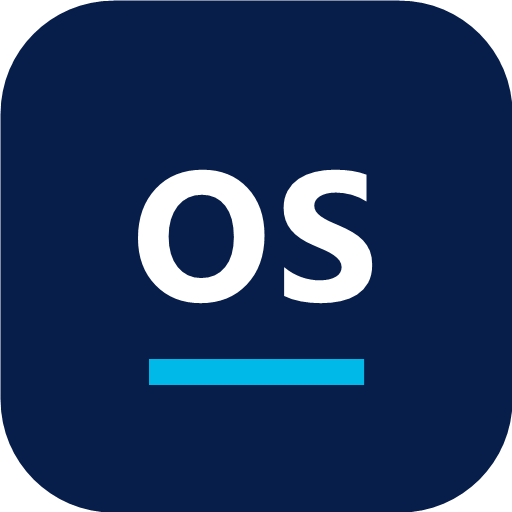
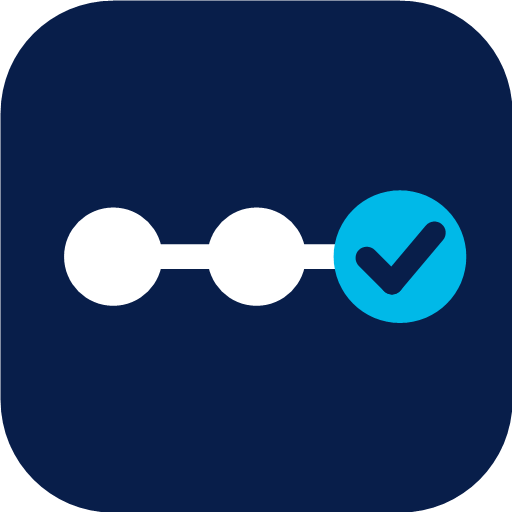
Correções: ícones de etapas, datas, carga de dados, aviso ao salvar, foco, cidade no gerador

Changed region(s): [[0.125, 0.3125, 0.9375, 0.6562], [0.2812, 0.6875, 0.7188, 0.75]]

diff --git a/gerador.html b/gerador.html
@@ -122,6 +122,9 @@
           <input id="f-bairro" maxlength="40" placeholder="Ex.: Barreiro">
         </div>
       </div>
+      <label for="f-cidade">Cidade da empresa <span class="opc">(opcional; em branco = BH e região)</span></label>
+      <input id="f-cidade" maxlength="40" placeholder="Ex.: Belo Horizonte, Contagem, Betim…" autocomplete="off">
+      <div class="msg-erro" id="aviso-cidade" hidden></div>
 
       <div class="linha">
         <div>
@@ -460,12 +463,26 @@ function marcarErros(erros) {
   });
 }
 
-/** abertura (opcional, vem da lista de prospecção): frase personalizada sobre a empresa, no lugar de "Vi a X no Google". */
-function mensagemPara(empresa, link, nicho, abertura) {
+/* Cidades de BH e região: a apresentação "desenvolvedor aqui de BH" passa confiança local. Fora delas, apresentação nacional. */
+const REGIAO_BH = ['belo horizonte', 'bh', 'contagem', 'betim', 'nova lima', 'sabara', 'santa luzia', 'ribeirao das neves', 'ibirite',
+  'vespasiano', 'lagoa santa', 'sarzedo', 'brumadinho', 'pedro leopoldo', 'confins', 'sao jose da lapa', 'raposos', 'rio acima',
+  'juatuba', 'mateus leme', 'igarape', 'esmeraldas', 'caete', 'mario campos', 'sao joaquim de bicas'];
+function naRegiaoBH(cidade) {
+  const c = String(cidade || '').normalize('NFD').replace(/[̀-ͯ]/g, '').toLowerCase().replace(/[^a-z ]/g, ' ').replace(/\s+/g, ' ').trim()
+    .replace(/ (mg|minas gerais)$/, '');
+  return !c || REGIAO_BH.includes(c);
+}
+function apresentacao(nome, cidade) {
+  return naRegiaoBH(cidade) ? `Sou ${nome}, desenvolvedor aqui de BH.` : `Sou ${nome}, da LeonTech: desenvolvo sites e sistemas, com atendimento remoto em todo o Brasil.`;
+}
+/** abertura (opcional, vem da lista de prospecção): frase personalizada sobre a empresa, no lugar de "Vi a X no Google".
+ *  cidade (opcional): decide a apresentação (BH e região × nacional). */
+function mensagemPara(empresa, link, nicho, abertura, cidade) {
   const nome = ler('seu_nome') || 'Leonardo';
   const pedido = (NICHOS[nicho] || NICHOS.oficina).pedido || 'pedidos de orçamento';
-  if (abertura) return `Oi, tudo bem? Sou ${nome}, desenvolvedor aqui de BH. ${abertura}\n\nMontei uma prévia de como poderia ficar uma página para receber ${pedido} direto no WhatsApp de vocês:\n\n${link}\n\nSe fizer sentido, te explico em 10 minutos como funciona. Se não for o momento, sem problema: é só me avisar que não mando mais mensagem.`;
-  return `Oi, tudo bem? Sou ${nome}, desenvolvedor aqui de BH. Vi a ${empresa} no Google e montei uma prévia de como poderia ficar uma página para receber ${pedido} direto no WhatsApp de vocês:\n\n${link}\n\nSe fizer sentido, te explico em 10 minutos como funciona. Se não for o momento, sem problema: é só me avisar que não mando mais mensagem.`;
+  const sou = apresentacao(nome, cidade);
+  if (abertura) return `Oi, tudo bem? ${sou} ${abertura}\n\nMontei uma prévia de como poderia ficar uma página para receber ${pedido} direto no WhatsApp de vocês:\n\n${link}\n\nSe fizer sentido, te explico em 10 minutos como funciona. Se não for o momento, sem problema: é só me avisar que não mando mais mensagem.`;
+  return `Oi, tudo bem? ${sou} Vi a ${empresa} no Google e montei uma prévia de como poderia ficar uma página para receber ${pedido} direto no WhatsApp de vocês:\n\n${link}\n\nSe fizer sentido, te explico em 10 minutos como funciona. Se não for o momento, sem problema: é só me avisar que não mando mais mensagem.`;
 }
 
 $('#f').addEventListener('submit', async ev => {
@@ -486,14 +503,15 @@ $('#f').addEventListener('submit', async ev => {
 
   const btn = $('#f-gerar'); btn.disabled = true; btn.textContent = 'Gerando…';
   const abertura = daLista && daLista.empresa === p.empresa ? daLista.abertura : '';
+  const cidade = $('#f-cidade').value.trim(); // só decide a apresentação da mensagem; não vai para o servidor
   try {
     if (temImagens) Object.assign(p, await enviarImagens(t => { btn.textContent = t; }));
     btn.textContent = 'Gerando…';
     const r = await api({ acao: 'criarPrevia', previa: p });
     if (r.chaveInvalida) { chave = ''; salvar('chave_previas', ''); mostrarTelas(); return aviso('#c-retorno', 'erro', 'A chave mudou. Cole a nova chave.'); }
     if (!r.ok) { if (r.erros) marcarErros(r.erros); return aviso('#f-retorno', 'erro', r.mensagem || 'Confira os campos marcados.'); }
-    mostrarResultado(p, r.id, abertura);
-    daLista = null; $('#f-da-lista').hidden = true;
+    mostrarResultado(p, r.id, abertura, cidade);
+    daLista = null; $('#f-da-lista').hidden = true; $('#aviso-cidade').hidden = true;
     $('#f').reset(); corAlterada = false; $('#f-cor').value = corPadrao($('#f-nicho').value);
     imagens.logo = null; imagens.fotos = []; corVeioDaLogo = false; $('#cor-da-logo').hidden = true; desenharMiniaturas();
     listar();
@@ -508,12 +526,12 @@ $('#f').addEventListener('submit', async ev => {
 let resultado = null;
 function linkDaPrevia(id) { return `${BASE_PREVIA}?p=${encodeURIComponent(id)}`; }
 
-function mostrarResultado(p, id, abertura) {
+function mostrarResultado(p, id, abertura, cidade) {
   const link = linkDaPrevia(id);
   resultado = { p, id, link };
   $('#r-link').textContent = link;
   $('#r-abrir').href = link;
-  $('#r-msg').value = mensagemPara(p.empresa, link, p.nicho, abertura);
+  $('#r-msg').value = mensagemPara(p.empresa, link, p.nicho, abertura, cidade);
   atualizarBotaoEnviar();
   aviso('#r-retorno', null);
   $('#sec-resultado').hidden = false;
@@ -829,7 +847,7 @@ function lerDadosDoLink(hash) {
   const v = (k, max) => (h.get(k) || '').replace(/[\u0000-\u001f]/g, ' ').trim().slice(0, max);
   const d = {
     empresa: v('empresa', 60), nicho: v('nicho', 24), bairro: v('bairro', 40), whatsapp: v('whatsapp', 20),
-    nota: v('nota', 3), avaliacoes: v('avaliacoes', 7), endereco: v('endereco', 120), abertura: v('abertura', 300)
+    nota: v('nota', 3), avaliacoes: v('avaliacoes', 7), endereco: v('endereco', 120), abertura: v('abertura', 300), cidade: v('cidade', 40)
   };
   if (d.empresa.length < 2) return null;
   if (!NICHOS[d.nicho]) d.nicho = '';
@@ -843,6 +861,7 @@ function aplicarDadosDoLink(d) {
   $('#f-whatsapp').value = d.whatsapp; $('#f-whatsapp').dispatchEvent(new Event('input'));
   $('#f-nota').value = d.nota; $('#f-avaliacoes').value = d.avaliacoes;
   $('#f-endereco').value = d.endereco;
+  $('#f-cidade').value = d.cidade; avisarCidade();
   const box = $('#f-da-lista'); box.replaceChildren();
   const div = document.createElement('div'); div.className = 'aviso ok';
   div.textContent = `Dados de "${d.empresa}" carregados da sua lista.${d.nicho ? '' : ' Escolha o nicho.'} Confira e toque em Gerar prévia.${d.abertura ? ' A mensagem já sai com a frase personalizada.' : ''}`;
@@ -857,6 +876,15 @@ function carregarDoLink() {
 }
 addEventListener('hashchange', carregarDoLink);
 
+/* A prévia (landing) ainda é feita para BH e região: título "em BH", selo e endereço. Avisa antes de mandar para outra cidade. */
+function avisarCidade() {
+  const fora = !naRegiaoBH($('#f-cidade').value);
+  const el = $('#aviso-cidade');
+  el.textContent = fora ? 'Atenção: a prévia ainda mostra "BH" no título, no selo e no endereço. A mensagem sai com a apresentação nacional, mas confira a prévia antes de enviar para empresas de outras cidades.' : '';
+  el.hidden = !fora;
+}
+$('#f-cidade').addEventListener('input', avisarCidade);
+
 /* ---------- Início ---------- */
 $('#c-nome').value = ler('seu_nome') || 'Leonardo';
 $('#f-cor').value = corPadrao($('#f-nicho').value);
@@ -867,7 +895,7 @@ if ('serviceWorker' in navigator && (location.protocol === 'https:' || location.
   addEventListener('load', () => navigator.serviceWorker.register('sw.js', { scope: 'gerador.html' }).catch(() => {}));
 }
 // Exposto para testes automatizados
-window.GERADOR = { lerDadosDoLink, aplicarDadosDoLink, numeroBR, coletarPrevia, lerServicos, whatsDigitos, mensagemPara, linkDaPrevia, listar, imagens, corDaLogo, reduzirImagem, PACOTES, mensagemProposta, mensagemSeguimento, get chave() { return chave; } };
+window.GERADOR = { lerDadosDoLink, aplicarDadosDoLink, naRegiaoBH, apresentacao, numeroBR, coletarPrevia, lerServicos, whatsDigitos, mensagemPara, linkDaPrevia, listar, imagens, corDaLogo, reduzirImagem, PACOTES, mensagemProposta, mensagemSeguimento, get chave() { return chave; } };
 </script>
 </body>
 </html>

diff --git a/etapas/etapas.js b/etapas/etapas.js
@@ -144,7 +144,7 @@
     avarias = avarias.filter(function (a, i) { return avarias.indexOf(a) === i; }).slice(0, MAX.avarias);
     if (!avarias.length) erros.avarias = 'Liste pelo menos um item (' + (cfg.rotuloAvarias || 'avarias').toLowerCase() + ').';
     var previsao = String(dados.previsao || '');
-    if (previsao && !/^\d{4}-\d{2}-\d{2}$/.test(previsao)) erros.previsao = 'Data inválida.';
+    if (previsao && !dataValida(previsao)) erros.previsao = 'Data inválida.';
     return {
       erros: erros, ok: !Object.keys(erros).length,
       dados: { nome: nome, whatsapp: normalizarWhats(whats), modelo: modelo, cor: limpar(dados.cor, MAX.cor), placa: placa, avarias: avarias, previsao: previsao, obs: limpar(dados.obs, MAX.obs) }
@@ -225,6 +225,13 @@
     var d = Math.floor(h / 24);
     return d + (d === 1 ? ' dia' : ' dias');
   }
+  /* "AAAA-MM-DD" de um dia que existe (recusa 31/02 e 29/02 fora de ano bissexto). */
+  function dataValida(iso) {
+    var m = /^(\d{4})-(\d{2})-(\d{2})$/.exec(String(iso || ''));
+    if (!m) return false;
+    var a = +m[1], me = +m[2], d = +m[3], dt = new Date(a, me - 1, d);
+    return a >= 2000 && a <= 2100 && dt.getFullYear() === a && dt.getMonth() === me - 1 && dt.getDate() === d;
+  }
   function dataISO(d) { function p(n) { return (n < 10 ? '0' : '') + n; } return d.getFullYear() + '-' + p(d.getMonth() + 1) + '-' + p(d.getDate()); }
   function dataBR(iso) { var m = /^(\d{4})-(\d{2})-(\d{2})/.exec(iso || ''); return m ? m[3] + '/' + m[2] : ''; }
   function horaBR(iso) { var d = new Date(iso); if (isNaN(d)) return ''; function p(n) { return (n < 10 ? '0' : '') + n; } return p(d.getDate()) + '/' + p(d.getMonth() + 1) + ' ' + p(d.getHours()) + 'h' + p(d.getMinutes()); }
@@ -261,8 +268,9 @@
     // Telefone só quando o texto é só números (senão os números da placa achariam telefones).
     var tel = /^[\d ]+$/.test(t) && tp.length >= 4 ? tp : '';
     return estado.itens.filter(function (it) {
-      return semAcento(it.cliente.nome).indexOf(t) > -1 || semAcento(it.modelo).indexOf(t) > -1 ||
-        (tp && it.placa.toLowerCase().indexOf(tp) > -1) || String(it.numero) === t || (tel && soDigitos(it.cliente.whatsapp).indexOf(tel) > -1);
+      var cli = it.cliente || {};
+      return semAcento(cli.nome).indexOf(t) > -1 || semAcento(it.modelo).indexOf(t) > -1 ||
+        (tp && String(it.placa || '').toLowerCase().indexOf(tp) > -1) || String(it.numero) === t || (tel && soDigitos(cli.whatsapp).indexOf(tel) > -1);
     });
   }
 
@@ -324,15 +332,50 @@
   }
 
   /* ---------- armazenamento ---------- */
+  function texto(v, max) { return typeof v === 'string' ? v.slice(0, max) : (typeof v === 'number' ? String(v) : ''); }
+  /* Completa campos opcionais que faltam. Devolve null se faltar o essencial (id, token, etapa conhecida). */
+  function normalizarItem(e, it) {
+    if (!it || typeof it !== 'object' || typeof it.id !== 'string' || !it.id || typeof it.token !== 'string' || !it.token || indiceEtapa(e, it.etapa) < 0) return null;
+    var cli = it.cliente && typeof it.cliente === 'object' ? it.cliente : {};
+    var hist = Array.isArray(it.historico) ? it.historico.filter(function (h) { return h && typeof h.etapa === 'string' && typeof h.quando === 'string'; }) : [];
+    var criado = typeof it.criadoEm === 'string' && !isNaN(new Date(it.criadoEm)) ? it.criadoEm : (hist[0] ? hist[0].quando : new Date().toISOString());
+    return {
+      id: it.id, token: it.token, numero: typeof it.numero === 'number' ? it.numero : 0,
+      cliente: { nome: texto(cli.nome, MAX.nome) || 'Cliente', whatsapp: normalizarWhats(cli.whatsapp) },
+      modelo: texto(it.modelo, MAX.modelo) || '—', cor: texto(it.cor, MAX.cor), placa: normalizarPlaca(it.placa),
+      avarias: Array.isArray(it.avarias) ? it.avarias.filter(function (a) { return typeof a === 'string' && a; }).slice(0, MAX.avarias) : [],
+      previsao: dataValida(it.previsao) ? it.previsao : '', obs: texto(it.obs, MAX.obs),
+      etapa: it.etapa, checks: it.checks && typeof it.checks === 'object' ? it.checks : {}, cancelado: it.cancelado === true,
+      historico: hist.length ? hist : [{ etapa: it.etapa, quem: 'Sistema', quando: criado, acao: 'entrada' }],
+      criadoEm: criado
+    };
+  }
   function valido(e) {
-    return e && e.versao === VERSAO_DADOS && NICHOS[e.nicho] && Array.isArray(e.itens) && typeof e.seq === 'number' &&
-      e.itens.every(function (it) { return it && typeof it.id === 'string' && typeof it.token === 'string' && it.cliente && Array.isArray(it.historico) && Array.isArray(it.avarias) && indiceEtapa(e, it.etapa) > -1; });
+    return !!(e && e.versao === VERSAO_DADOS && NICHOS[e.nicho] && Array.isArray(e.itens) && typeof e.seq === 'number' &&
+      e.itens.every(function (it) { return !!normalizarItem(e, it); }));
   }
+  /* Carrega os dados do aparelho. Registros com problema são consertados quando dá; os que não dá ficam de fora,
+   * mas o original é guardado numa cópia de segurança (não some em silêncio). Devolve null se não houver dados utilizáveis. */
   function carregar(armazem) {
-    try { var e = JSON.parse((armazem || global.localStorage).getItem(CHAVE_DADOS)); return valido(e) ? e : null; } catch (x) { return null; }
+    var a = armazem || global.localStorage, bruto;
+    try { bruto = a.getItem(CHAVE_DADOS); } catch (x) { return null; }
+    if (!bruto) return null;
+    var e;
+    try { e = JSON.parse(bruto); } catch (x) { guardarCopia(a, bruto); return null; }
+    if (!e || e.versao !== VERSAO_DADOS || !NICHOS[e.nicho] || !Array.isArray(e.itens)) { guardarCopia(a, bruto); return null; }
+    var itens = [], descartados = 0;
+    e.itens.forEach(function (it) { var n = normalizarItem(e, it); if (n) itens.push(n); else descartados++; });
+    var maior = itens.reduce(function (m, it) { return Math.max(m, it.numero); }, 0);
+    var estado = { versao: VERSAO_DADOS, nicho: e.nicho, seq: Math.max(typeof e.seq === 'number' ? e.seq : 0, maior + 1), itens: itens };
+    if (descartados) { guardarCopia(a, bruto); estado.avisoCarga = descartados + (descartados === 1 ? ' registro com problema ficou de fora' : ' registros com problema ficaram de fora') + ' (uma cópia foi guardada).'; }
+    return estado;
   }
+  function guardarCopia(a, bruto) { try { a.setItem(CHAVE_DADOS + '_copia', bruto); } catch (x) {} }
   function salvar(estado, armazem) {
-    try { (armazem || global.localStorage).setItem(CHAVE_DADOS, JSON.stringify(estado)); return true; } catch (x) { return false; }
+    try {
+      var copia = {}; for (var k in estado) if (k !== 'avisoCarga') copia[k] = estado[k];
+      (armazem || global.localStorage).setItem(CHAVE_DADOS, JSON.stringify(copia)); return true;
+    } catch (x) { return false; }
   }
 
   global.Etapas = {
@@ -341,7 +384,7 @@
     cfgDe: cfgDe, etapasDe: etapasDe, indiceEtapa: indiceEtapa, etapaAtual: etapaAtual, proximaEtapa: proximaEtapa, finalizado: finalizado,
     checklistDe: checklistDe, marcados: marcados, pendentes: pendentes,
     validarNovo: validarNovo, novoItem: novoItem, marcar: marcar, concluirEtapa: concluirEtapa, voltarEtapa: voltarEtapa, cancelar: cancelar,
-    minutosNaEtapa: minutosNaEtapa, tempoTexto: tempoTexto, atrasado: atrasado, dataISO: dataISO, dataBR: dataBR, horaBR: horaBR,
+    minutosNaEtapa: minutosNaEtapa, tempoTexto: tempoTexto, atrasado: atrasado, dataISO: dataISO, dataValida: dataValida, normalizarItem: normalizarItem, dataBR: dataBR, horaBR: horaBR,
     resumo: resumo, buscar: buscar, linkColaborador: linkColaborador, linkCliente: linkCliente, porToken: porToken, porId: porId,
     descricaoItem: descricaoItem, mensagemCliente: mensagemCliente, linkWhats: linkWhats, linhaDoTempo: linhaDoTempo,
     criarDemo: criarDemo, carregar: carregar, salvar: salvar, valido: valido

diff --git a/catalogo/app.js b/catalogo/app.js
@@ -11,7 +11,13 @@
 
   function esc(t) { return String(t == null ? '' : t).replace(/[&<>"']/g, function (c) { return { '&': '&amp;', '<': '&lt;', '>': '&gt;', '"': '&quot;', "'": '&#39;' }[c]; }); }
   function cfg() { return C.cfgDe(estado); }
-  function gravar() { C.salvar(estado); }
+  /* Avisa quando o aparelho deixa de salvar (memória cheia ou bloqueada); os dados continuam na tela aberta. */
+  function gravar() {
+    var ok = C.salvar(estado);
+    if (!ok && !semArmazenamento) aviso('Não consegui salvar neste aparelho (memória cheia ou bloqueada). O que você fez vale só enquanto esta tela estiver aberta.', 'erro');
+    semArmazenamento = !ok;
+    return ok;
+  }
   function formVazio() { return { modo: 'entrega', endereco: '', pagamento: 'pix', troco: '', observacoes: '', cliente: { nome: '', whatsapp: '' } }; }
   function selo(st) { return '<span class="selo selo-' + esc(st) + '">' + esc(C.rotuloStatus(st)) + '</span>'; }
   function aviso(msg, tipo) {
@@ -42,7 +48,7 @@
   /* ---------------- loja (cliente) ---------------- */
   function telaLoja() {
     var c = cfg();
-    return '<p class="visao">Visão do <strong>cliente</strong>: o catálogo que vai no Instagram, no Google e no status do WhatsApp.</p>' +
+    return '<h1 class="titulo">Faça seu pedido</h1><p class="visao">Visão do <strong>cliente</strong>: o catálogo que vai no Instagram, no Google e no status do WhatsApp.</p>' +
       '<div class="info-loja"><span>Entrega ' + esc(C.formatarMoeda(c.taxaEntrega)) + '</span><span>Pedido mínimo para entrega ' + esc(C.formatarMoeda(c.pedidoMinimo)) + '</span><span>Retirada sem taxa</span></div>' +
       '<nav class="categorias" aria-label="Categorias">' + c.categorias.map(function (cat, i) { return '<a href="#loja" data-cat="' + i + '">' + esc(cat.nome) + '</a>'; }).join('') + '</nav>' +
       c.categorias.map(function (cat, i) {

diff --git a/etapas/app.js b/etapas/app.js
@@ -16,7 +16,13 @@
     });
   }
   function cfg() { return E.cfgDe(estado); }
-  function gravar() { E.salvar(estado); }
+  /* Avisa quando o aparelho deixa de salvar (memória cheia ou bloqueada); os dados continuam na tela aberta. */
+  function gravar() {
+    var ok = E.salvar(estado);
+    if (!ok && !semArmazenamento) aviso('Não consegui salvar neste aparelho (memória cheia ou bloqueada). O que você fez vale só enquanto esta tela estiver aberta.', 'erro');
+    semArmazenamento = !ok;
+    return ok;
+  }
   function lerPref(k) { try { return localStorage.getItem(k) || ''; } catch (e) { return ''; } }
   function salvarPref(k, v) { try { localStorage.setItem(k, v); } catch (e) {} }
   function aviso(msg, tipo) {
@@ -242,7 +248,8 @@
     else { rota = 'quadro'; html = telaQuadro(); }
     if (rota !== 'item') ultimoConcluido = null;
     pintarCabecalho(rota);
-    raiz.innerHTML = html + (semArmazenamento ? '<p class="erro-caixa">Este navegador não deixa salvar dados (aba anônima?). A demonstração funciona, mas é apagada ao fechar.</p>' : '');
+    raiz.innerHTML = (estado.avisoCarga ? '<p class="erro-caixa" role="alert">' + esc(estado.avisoCarga) + '</p>' : '') + html +
+      (semArmazenamento ? '<p class="erro-caixa" role="alert">Este aparelho não está salvando os dados (memória cheia, bloqueio ou aba anônima). A demonstração funciona, mas o que você fizer é apagado ao fechar.</p>' : '');
     var h1 = raiz.querySelector('h1'); if (h1 && render.focar) h1.focus();
     render.focar = true;
   }

diff --git a/agenda/app.js b/agenda/app.js
@@ -14,7 +14,13 @@
     return String(t == null ? '' : t).replace(/[&<>"']/g, function (c) { return { '&': '&amp;', '<': '&lt;', '>': '&gt;', '"': '&quot;', "'": '&#39;' }[c]; });
   }
   function cfg() { return A.cfgDe(estado); }
-  function gravar() { A.salvar(estado); }
+  /* Avisa quando o aparelho deixa de salvar (memória cheia ou bloqueada); os dados continuam na tela aberta. */
+  function gravar() {
+    var ok = A.salvar(estado);
+    if (!ok && !semArmazenamento) aviso('Não consegui salvar neste aparelho (memória cheia ou bloqueada). O que você fez vale só enquanto esta tela estiver aberta.', 'erro');
+    semArmazenamento = !ok;
+    return ok;
+  }
   /* Hoje, se estiver aberto; senão, o próximo dia com expediente (a demo tem horários nele). */
   function diaInicial() { return A.proximosDias(estado, new Date(), 1)[0] || A.dataISO(new Date()); }
   function novoPedido() { return { servicoId: '', profissional: '', data: '', hora: '', cliente: { nome: '', whatsapp: '' }, observacoes: '' }; }

diff --git a/etapas/estilo.css b/etapas/estilo.css
@@ -12,7 +12,7 @@ button, input, select, textarea { font: inherit; color: inherit; }
 .vis-oculto { position: absolute; width: 1px; height: 1px; overflow: hidden; clip: rect(0 0 0 0); white-space: nowrap; }
 .pular { position: absolute; left: -999px; top: 8px; background: #fff; padding: 8px 12px; z-index: 10; }
 .pular:focus { left: 8px; }
-:focus-visible { outline: 3px solid var(--ciano); outline-offset: 2px; }
+:focus-visible { outline: 3px solid var(--marinho); outline-offset: 2px; box-shadow: 0 0 0 2px #fff; } /* anel marinho com separação branca: visível no claro e no escuro */
 
 .faixa-demo { background: var(--marinho); color: #e2e8f0; font-size: 13px; padding: 8px 16px; display: flex; flex-wrap: wrap; gap: 8px 16px; align-items: center; justify-content: space-between; }
 .faixa-demo .controles { display: flex; gap: 8px; align-items: center; }

diff --git a/sistema-os/estilo.css b/sistema-os/estilo.css
@@ -12,7 +12,7 @@ button, input, select, textarea { font: inherit; color: inherit; }
 .vis-oculto { position: absolute; width: 1px; height: 1px; overflow: hidden; clip: rect(0 0 0 0); white-space: nowrap; }
 .pular { position: absolute; left: -999px; top: 8px; background: #fff; padding: 8px 12px; z-index: 10; }
 .pular:focus { left: 8px; }
-:focus-visible { outline: 3px solid var(--ciano); outline-offset: 2px; }
+:focus-visible { outline: 3px solid var(--marinho); outline-offset: 2px; box-shadow: 0 0 0 2px #fff; } /* anel marinho com separação branca: visível no claro e no escuro */
 
 .faixa-demo { background: var(--marinho); color: #e2e8f0; font-size: 13px; padding: 8px 16px; display: flex; flex-wrap: wrap; gap: 8px 16px; align-items: center; justify-content: space-between; }
 .faixa-demo .controles { display: flex; gap: 8px; align-items: center; }

diff --git a/sistema-os/app.js b/sistema-os/app.js
@@ -16,7 +16,13 @@
   }
   function cfg() { return S.NICHOS_OS[estado.nicho]; }
   function empresa() { return S.empresaDo(estado); }
-  function gravar() { S.salvar(estado); }
+  /* Avisa quando o aparelho deixa de salvar (memória cheia ou bloqueada); os dados continuam na tela aberta. */
+  function gravar() {
+    var ok = S.salvar(estado);
+    if (!ok && !semArmazenamento) aviso('Não consegui salvar neste aparelho (memória cheia ou bloqueada). O que você fez vale só enquanto esta tela estiver aberta.', 'erro');
+    semArmazenamento = !ok;
+    return ok;
+  }
   function ordemPorId(id) { return estado.ordens.filter(function (o) { return o.id === id; })[0]; }
   function selo(st) { return '<span class="selo selo-' + esc(st) + '">' + esc(S.rotuloStatus(st)) + '</span>'; }
   function aviso(msg, tipo) {

diff --git a/agenda/estilo.css b/agenda/estilo.css
@@ -12,7 +12,7 @@ button, input, select { font: inherit; color: inherit; }
 .vis-oculto { position: absolute; width: 1px; height: 1px; overflow: hidden; clip: rect(0 0 0 0); white-space: nowrap; }
 .pular { position: absolute; left: -999px; top: 8px; background: #fff; padding: 8px 12px; z-index: 10; }
 .pular:focus { left: 8px; }
-:focus-visible { outline: 3px solid var(--ciano); outline-offset: 2px; }
+:focus-visible { outline: 3px solid var(--marinho); outline-offset: 2px; box-shadow: 0 0 0 2px #fff; } /* anel marinho com separação branca: visível no claro e no escuro */
 .nw { white-space: nowrap; }
 .fraco { color: var(--fraco); }
 .pequeno { font-size: 12.5px; }

diff --git a/catalogo/estilo.css b/catalogo/estilo.css
@@ -12,7 +12,7 @@ button, input, select { font: inherit; color: inherit; }
 .vis-oculto { position: absolute; width: 1px; height: 1px; overflow: hidden; clip: rect(0 0 0 0); white-space: nowrap; }
 .pular { position: absolute; left: -999px; top: 8px; background: #fff; padding: 8px 12px; z-index: 10; }
 .pular:focus { left: 8px; }
-:focus-visible { outline: 3px solid var(--ciano); outline-offset: 2px; }
+:focus-visible { outline: 3px solid var(--marinho); outline-offset: 2px; box-shadow: 0 0 0 2px #fff; } /* anel marinho com separação branca: visível no claro e no escuro */
 .fraco { color: var(--fraco); }
 .pequeno { font-size: 12.5px; }
 

diff --git a/etapas/sw.js b/etapas/sw.js
@@ -3,7 +3,7 @@
  * Rede primeiro; o cache só entra sem internet. Guarda apenas os arquivos da lista abaixo
  * (os dados da demo ficam no localStorage do navegador, não aqui).
  */
-const VERSAO = 'etapas-v1';
+const VERSAO = 'etapas-v2';
 const SHELL = ['./', 'index.html', 'qr.js', 'etapas.js', 'app.js', 'estilo.css', 'manifest.webmanifest',
   'icone-192.png', 'icone-512.png', 'apple-touch-icon.png'];
 const URLS_SHELL = new Set(SHELL.map(a => new URL(a, self.registration.scope).pathname));
